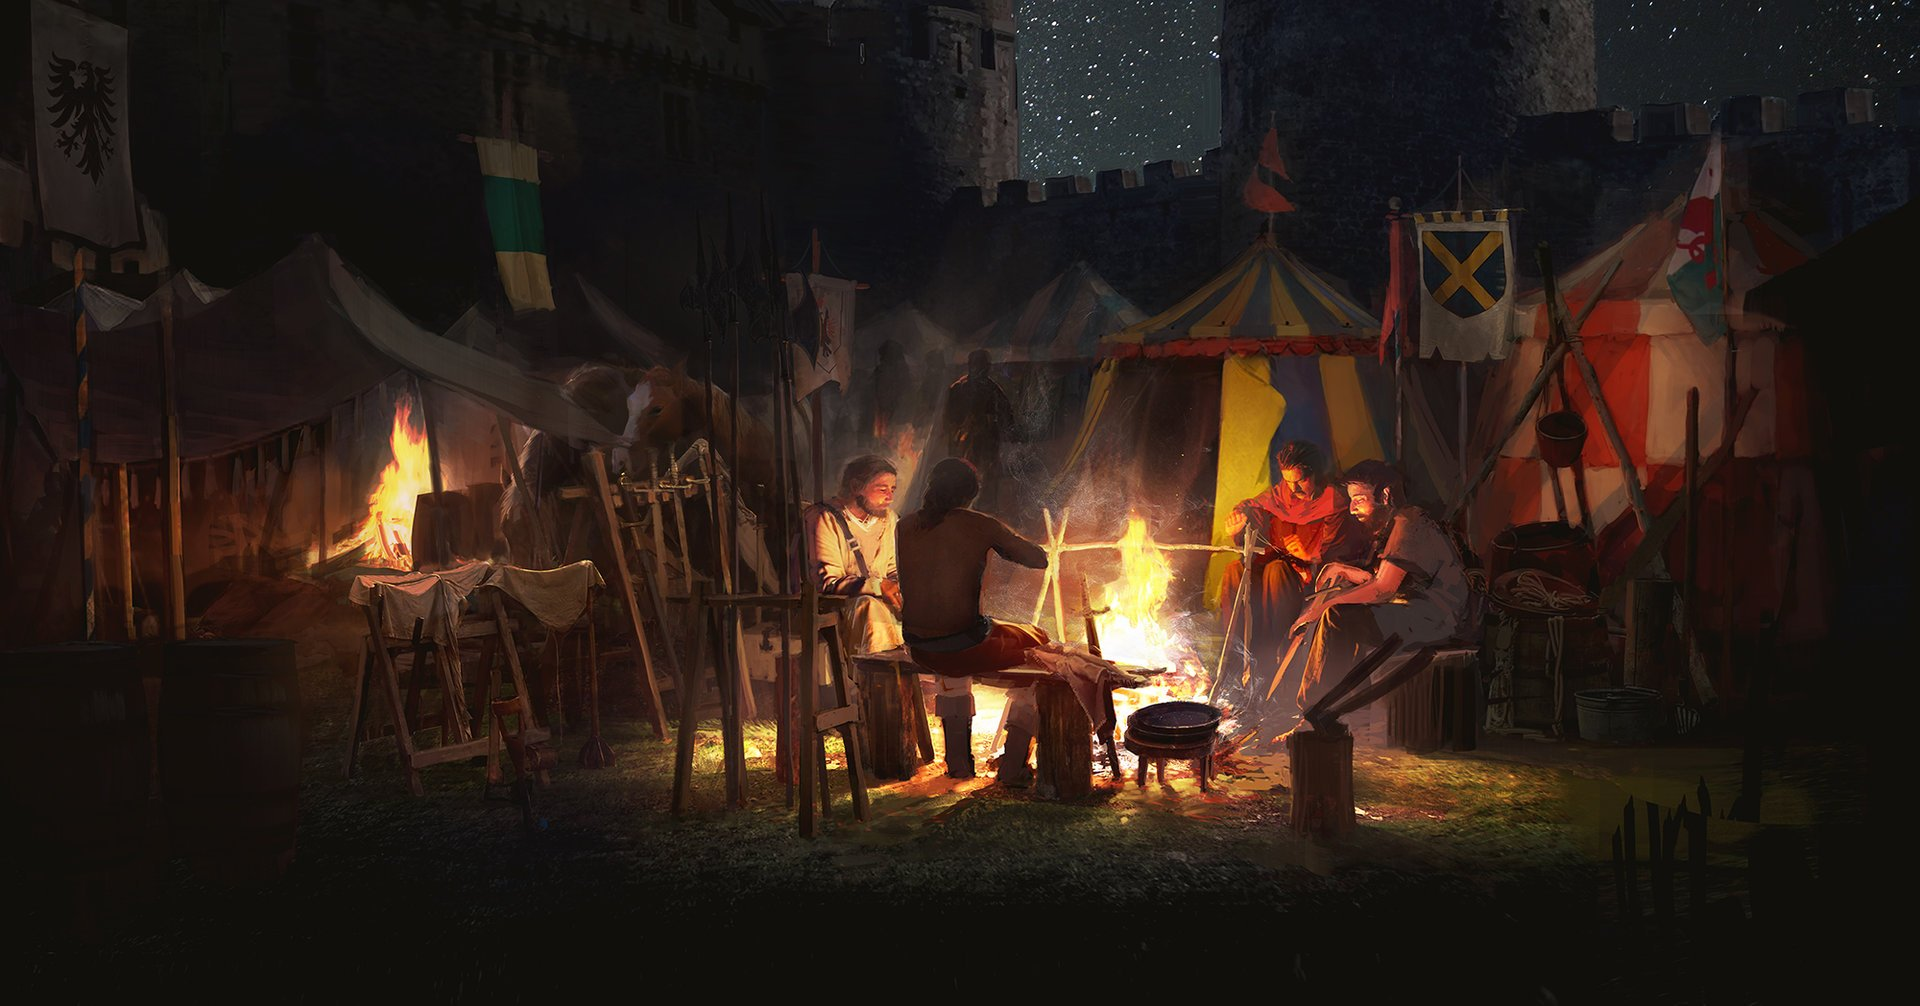
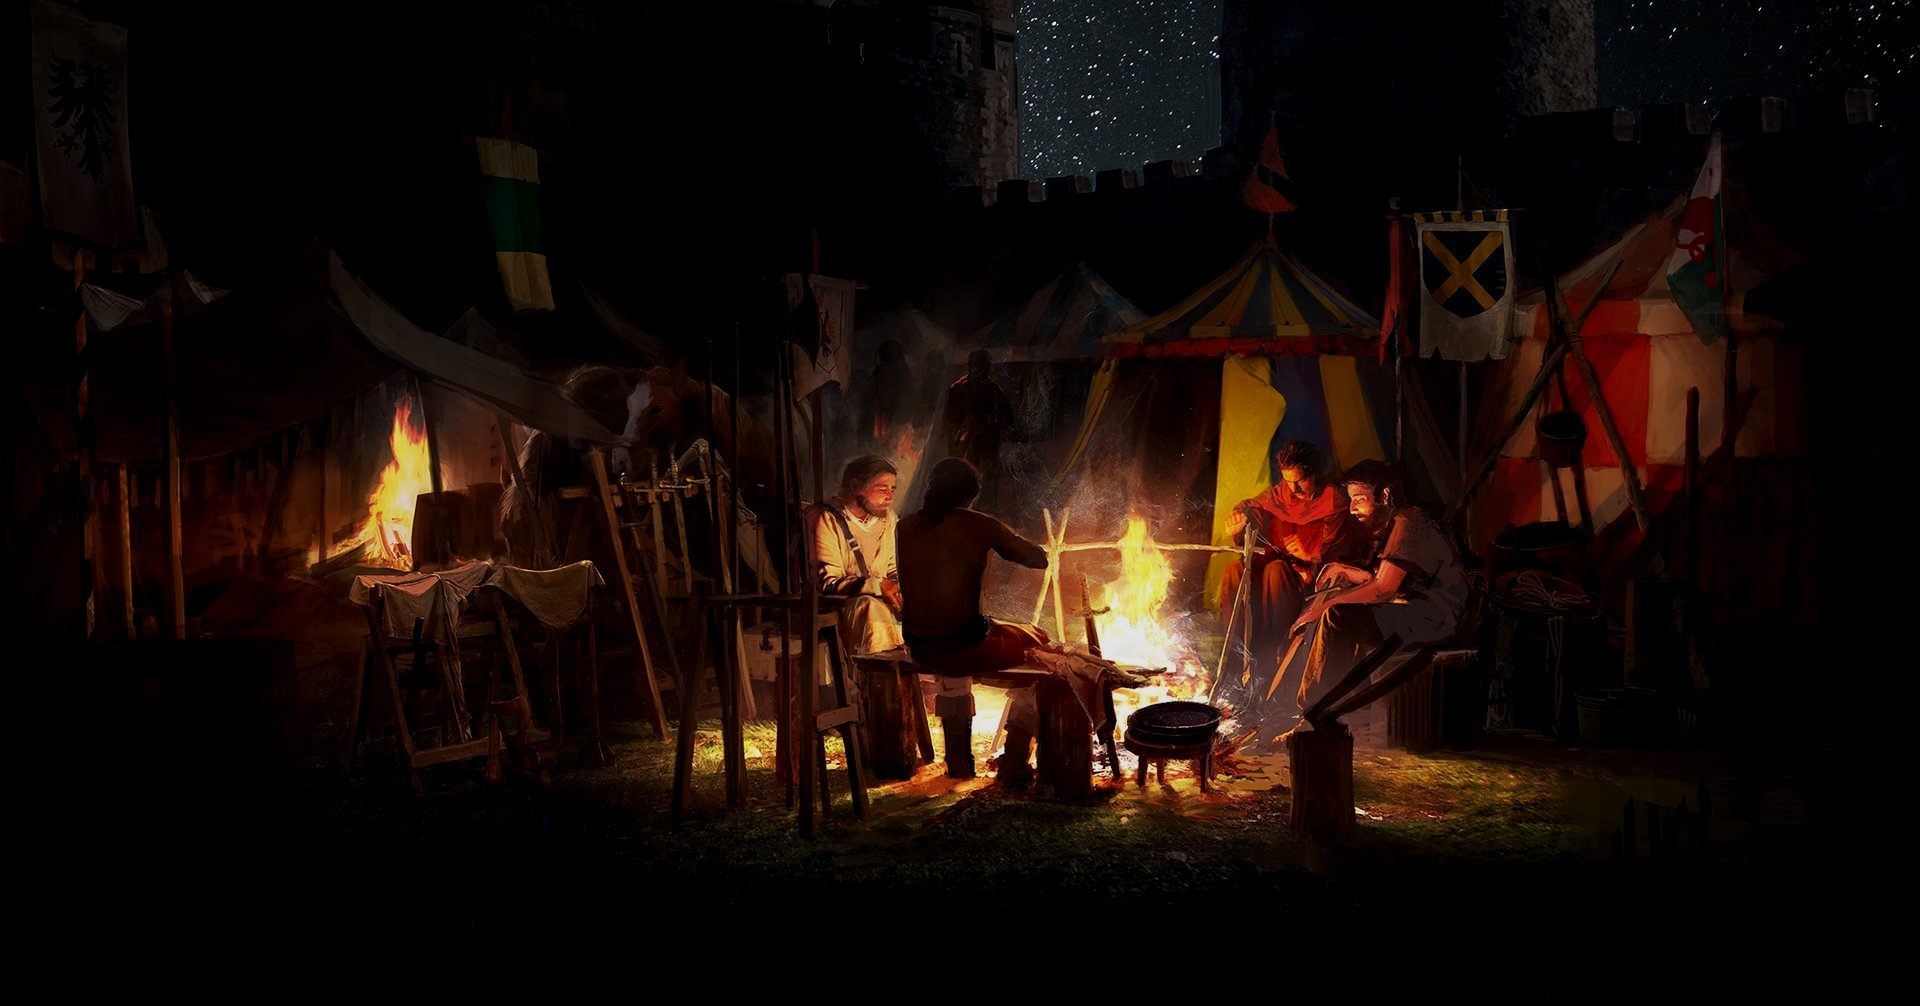
animations and normal shading & readme

diff --git a/src/pages/Home/Menu.tsx b/src/pages/Home/Menu.tsx
@@ -1,14 +1,13 @@
 import {Component} from "preact";
 import {Link} from "wouter-preact";
-import styles from "./Home.module.styl";
+import styles from "./Menu.module.styl";
 
 class Menu extends Component {
     elements = [
         ['court', 'Обучение'],
         ['castle', 'Кампания'],
         ['battle', 'Сражения'],
-        ['character', 'Персонажи'],
-        ['store', 'Магазин']
+        ['character', 'Персонажи']
     ];
 
     render() {
@@ -19,7 +18,7 @@ class Menu extends Component {
                         to=""
                         className={styles[id]}
                     >
-                        {name}
+                        <div className={styles.text}>{name}</div>
                     </Link>
                 )}
             </div>

diff --git a/src/components/Header/Header.tsx b/src/components/Header/Header.tsx
@@ -13,15 +13,11 @@ class Header extends Component {
                     className={styles.left}
                 >
                     <img
-                        src="/logo.png"
+                        src="/logo.webp"
                         alt="Logotype"
                         height={40}
                         className={styles.logo}
                     />
-
-                    <div className={styles.name}>
-                        __APP_NAME__
-                    </div>
                 </Link>
 
                 <div className={styles.right}>

diff --git a/README.md b/README.md
@@ -1,0 +1,16 @@
+<div align="center" >
+<img 
+    alt="PixelBattle logo" 
+    src="./public/logo.webp"
+>
+<br>
+
+![License](https://img.shields.io/github/license/BloodyBladez/frontend)
+</div>
+
+## Usage
+You can use the automatic `start.sh` or `start.bat` script in the root, or:
+1. Install dependencies via `yarn install` (recommended to use [yarn](https://classic.yarnpkg.com/lang/en/docs/install/))
+2. Build the project using `yarn build` (or `npm build`)
+3. Run it using `yarn run preview` (or `npm run preview`)
+4. After all, you can access the site via https://localhost:9051
